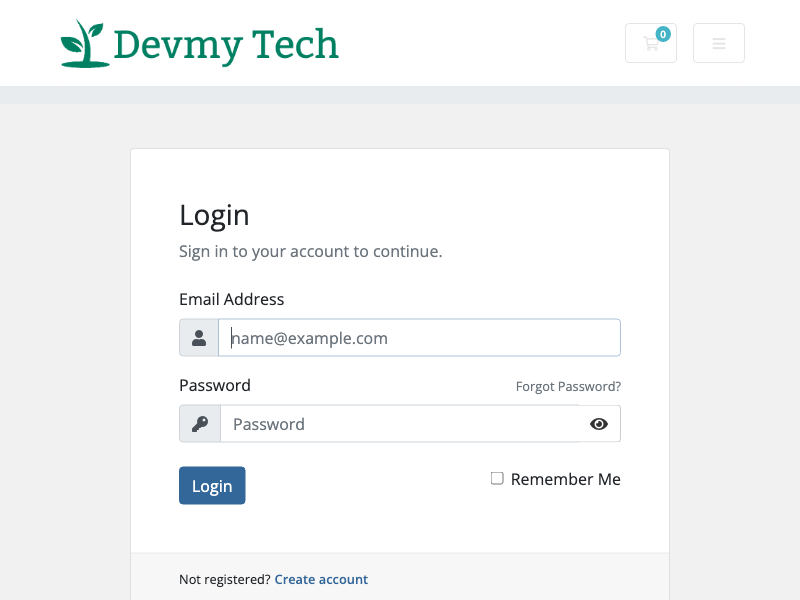
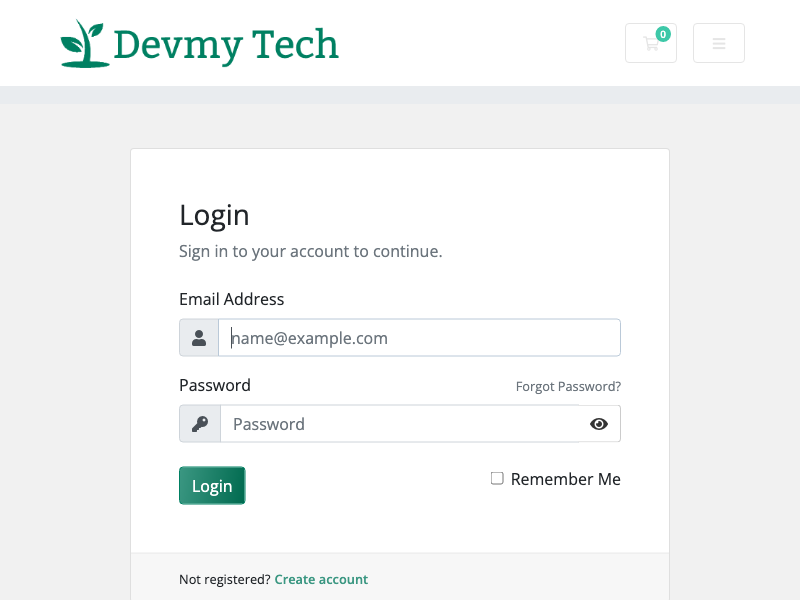
timestamp runs on start now, some style changes

Changed region(s): [[0.2188, 0.75, 0.3125, 0.84], [0.3438, 0.96, 0.4688, 0.99], [0.8125, 0.03, 0.8438, 0.09]]

diff --git a/index.html b/index.html
@@ -1,5 +1,6 @@
 <!DOCTYPE html>
 <html lang="en">
+
 <head>
     <meta charset="UTF-8">
     <meta http-equiv="X-UA-Compatible" content="IE=edge">
@@ -7,38 +8,46 @@
     <link rel="stylesheet" href="style.css">
     <title>Quick Look Debugger - Devmy Tech</title>
 </head>
+
 <body>
     <h1>Quick Look Debugger for Devmy Tech</h1>
 
     <section class="cards-wrapper">
 
-    <div class="viewportSS webpage">
-        <div class="card">
-            <img src="screenshots/devmy-home.png" alt="">
-            <a class="page-url" href="https://www.devmytech.com">devmytech.com</a>
-            <p class="last-scan">last scan:</p>
+        <div class="viewportSS webpage">
+            <div class="card">
+                <img src="screenshots/devmy-home.png" alt="">
+                <div class="content-wrapper">
+                    <a class="page-url" href="https://www.devmytech.com">devmytech.com</a>
+                    <p class="last-scan"></p>
+                </div>
+            </div>
         </div>
-    </div>
 
-    <div class="viewportSS webpage">
-        <div class="card">
-            <img src="screenshots/devmy-billing.png" alt="">
-            <a class="page-url" href="https://www.devmytech.com/billing">devmytech.com/billing</a>
-            <p class="last-scan">last scan:</p>
+        <div class="viewportSS webpage">
+            <div class="card">
+                <img src="screenshots/devmy-billing.png" alt="">
+                <div class="content-wrapper">
+                    <a class="page-url" href="https://www.devmytech.com/billing">devmytech.com/billing</a>
+                    <p class="last-scan"></p>
+                </div>
+            </div>
         </div>
-    </div>
 
-    <div class="viewportSS webpage">
-        <div class="card">
-            <img src="screenshots/devmy-billing-login.png" alt="">
-            <a class="page-url" href="https://www.devmytech.com/billing/login">devmytech.com/billing/login</a>
-            <p class="last-scan">last scan:</p>
+        <div class="viewportSS webpage">
+            <div class="card">
+                <img src="screenshots/devmy-billing-login.png" alt="">
+                <div class="content-wrapper">
+                    <a class="page-url" href="https://www.devmytech.com/billing/login">devmytech.com/billing/login</a>
+                    <p class="last-scan"></p>
+                </div>
+            </div>
         </div>
-    </div>
 
-</section>
+    </section>
 
 
-    <script src="script.js"></script>
+    <script src="timestamp.js"></script>
 </body>
+
 </html>

diff --git a/style.css b/style.css
@@ -1,48 +1,70 @@
+* {
+    padding: 0;
+    margin: 0;
+    box-sizing: border-box;
+}
+
 body {
-    background-color: #f9eeee;
+    /* font-family:'Franklin Gothic Medium', 'Arial Narrow', Arial, sans-serif; */
+    /* background-color: #cad2c5; */
+    /* background-color: #354f52; */
+    font-family:'Segoe UI', Tahoma, Geneva, Verdana, sans-serif;
+    background-color: #777;
 }
 
 h1 {
     text-align: center;
+    color: #121212;
+    text-shadow: #eee 0px 1px;
+    padding: 3rem;
 }
-
-
 
 .cards-wrapper {
     display: flex;
     flex-wrap: wrap;
     justify-content: center;
+    gap: 1.5rem;
 }
 
 .card {
-    width: 250px;
+    width: 300px;
     height: auto;
-    background-color: rgb(33, 33, 33);
+    /* background-color: #e1e1e1; */
+    background-color: #090909;
     border-radius: 5px;
-    border: solid #555 1px;
-    box-shadow: 0px 5px 20px 1px rgba(0, 0, 0, 0.859);
-    margin: 15px;
-    padding-bottom: 5px;
-
+    border: solid #0b0b0b 1px;
 }
 
+/* .card:hover {
+    box-shadow: 0px 5px 20px 1px rgba(0, 0, 0, 0.85);
+} */
+
 .card img {
-    width: 250px;
+    width: 100%;
     height: auto;
-    border-radius: 5px;
-    border-bottom: solid #555 1px;
+    border-radius: 5px 5px 0 0 ;
+    border-bottom: solid #0b0b0b 1px;
+}
+
+.content-wrapper {
+    display: grid;
+    gap: .5rem;
+    padding: 1rem .8rem;
 }
 
 .page-url,
 .last-scan {
-    margin: 5px;
-    color: green;
+    color: #08af08;
 }
 
 a {
-    font-family:'Gill Sans', 'Gill Sans MT', Calibri, 'Trebuchet MS', sans-serif;
+    font-weight: 100;
+    text-underline-offset: 2px;
+    text-decoration: underline 1px;
+    font-family:'Franklin Gothic Medium', 'Arial Narrow', Arial, sans-serif;
 }
 
 .last-scan {
     font-size: small;
+    font-family: 'Courier New', Courier, monospace;
 }

diff --git a/timestamp.js b/timestamp.js
@@ -1,0 +1,9 @@
+function getTimestamp() {
+    const lastScan = document.querySelectorAll('.last-scan');
+
+    lastScan.forEach((lastScanText) => {
+        lastScanText.innerText = new Date().toLocaleString();
+    })
+}
+
+getTimestamp();

diff --git a/index.js b/index.js
@@ -1,6 +1,5 @@
 const puppeteer = require('puppeteer');
 
-
 async function run() {
     const browser = await puppeteer.launch();
     const page = await browser.newPage();
